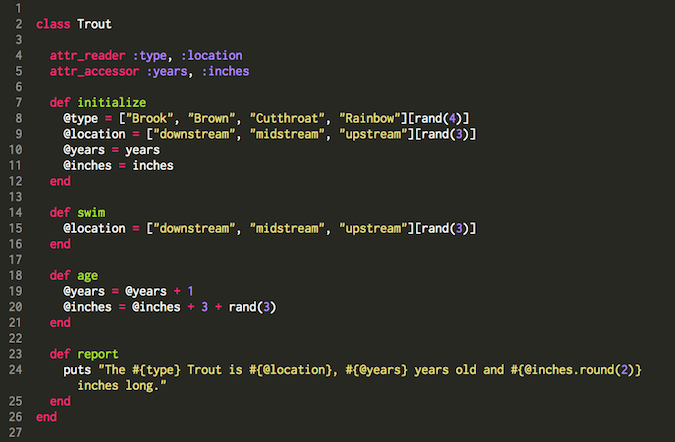
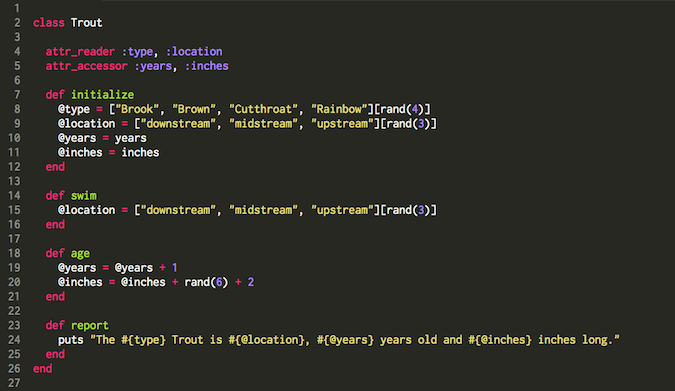
Update second example in 10-19 blog

Changed region(s): [[0.0, 0.0, 0.9644, 1.0]]

diff --git a/blog/008-101915-blog.html b/blog/008-101915-blog.html
@@ -46,9 +46,9 @@
         <div class="std">The Ruby code here does 4 different things inside the new class Trout. (1) First, in lines 4-12, we enable the creation of individual fish with their own attributes. We assign fish type and location randomly while accepting years and inches from the requesting instance. (2) Second, the method on lines 14-16 allows our fish to swim up and down the river. (3) Third, the method on lines 18-21 increases the age of each fish. (4) And finally on lines 23-25, we report the current location, age and length of any fish.</div>
         <div class="std"><span>Let's do this</span></div>
         <img src="../imgs/class-example-2.png" alt="second example of Trout class">
-        <div class="std">Of course in order to test these new behaviors we need to create a couple of Trout instances so that's what we do in lines 29 and 33. As you can see from the output, Fish 1 turns out to be a Brook Trout that begins life  midstream, and Fish 2 is a Brown Trout that starts out upstream. Next in lines 30-31 and 34-35, we assign their age and lengths.</div>
+        <div class="std">Of course in order to test these new behaviors we need to create a couple of Trout instances so that's what we do in lines 29 and 33. As you can see from the output, Fish 1 turns out to be a Brook Trout that begins life downstream, and Fish 2 is a Brown Trout that starts out upstream. Next in lines 30-31 and 34-35, we assign their age and lengths.</div>
         <div class="std">The very last thing we do is call our behaviors in lines 37 to 45. We run a report for each fish, then we age each fish and let them swim up and down the river before running one more report. </div>
-        <div class="std">As you can see in the second report, after 1 year our Brown Trout has joined the Brook Trout midstream, and it's gained 5 inches while the Brook Trout has only gained 4. It's not a scientifically accurate simulation, but hopefully this gives you a better idea of when and how we can use Ruby classes, instance variables, and instance methods to describe real and interact with real world objects. </div>
+        <div class="std">As you can see from the second report on each fish, after 1 year our Brown Trout and Brook Trout have switched locations and the Brown Trout has gained 6 inches, while the Brook Trout has only gained 2. I know this isn't a very accurate simulation, but hopefully it gives you a better idea of when and how we can use Ruby classes, instance variables, and instance methods to describe and interact with programming objects. </div>
       </div>
       <div class="return">
         <a href="007-101215-blog.html">Previous posting</a>

diff --git a/blog/ruby-classes.html b/blog/ruby-classes.html
@@ -46,9 +46,9 @@
         <div class="std">The Ruby code here does 4 different things inside the new class Trout. (1) First, in lines 4-12, we enable the creation of individual fish with their own attributes. We assign fish type and location randomly while accepting years and inches from the requesting instance. (2) Second, the method on lines 14-16 allows our fish to swim up and down the river. (3) Third, the method on lines 18-21 increases the age of each fish. (4) And finally on lines 23-25, we report the current location, age and length of any fish.</div>
         <div class="std"><span>Let's do this</span></div>
         <img src="../imgs/class-example-2.png" alt="second example of Trout class">
-        <div class="std">Of course in order to test these new behaviors we need to create a couple of Trout instances so that's what we do in lines 29 and 33. As you can see from the output, Fish 1 turns out to be a Brook Trout that begins life  midstream, and Fish 2 is a Brown Trout that starts out upstream. Next in lines 30-31 and 34-35, we assign their age and lengths.</div>
+        <div class="std">Of course in order to test these new behaviors we need to create a couple of Trout instances so that's what we do in lines 29 and 33. As you can see from the output, Fish 1 turns out to be a Brook Trout that begins life downstream, and Fish 2 is a Brown Trout that starts out upstream. Next in lines 30-31 and 34-35, we assign their age and lengths.</div>
         <div class="std">The very last thing we do is call our behaviors in lines 37 to 45. We run a report for each fish, then we age each fish and let them swim up and down the river before running one more report. </div>
-        <div class="std">As you can see in the second report, after 1 year our Brown Trout has joined the Brook Trout midstream, and it's gained 5 inches while the Brook Trout has only gained 4. It's not a scientifically accurate simulation, but hopefully this gives you a better idea of when and how we can use Ruby classes, instance variables, and instance methods to describe real and interact with real world objects. </div>
+        <div class="std">As you can see from the second report on each fish, after 1 year our Brown Trout and Brook Trout have switched locations and the Brown Trout has gained 6 inches, while the Brook Trout has only gained 2. I know this isn't a very accurate simulation, but hopefully it gives you a better idea of when and how we can use Ruby classes, instance variables, and instance methods to describe and interact with programming objects. </div>
       </div>
       <div class="return">
         <a href="007-101215-blog.html">Previous posting</a>
